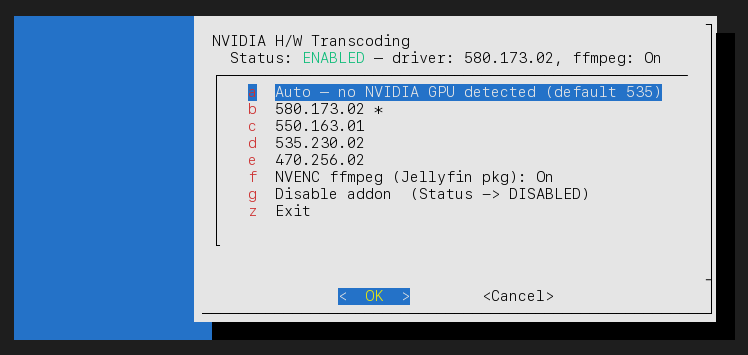
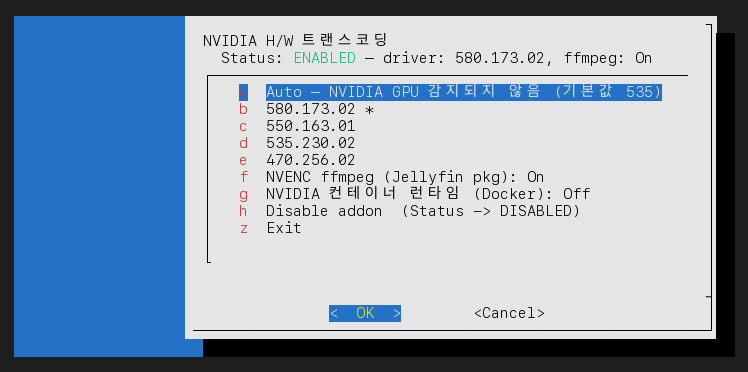
README_instruction_ko.md: 한글 메뉴 캡처 전량 재촬영 + NVIDIA 컨테이너 런타임 항목 보완
152 실기(v1.4.2.4, ko_KR)에서 메인 메뉴와 z/g/n/x 하위메뉴 5장을 전부
다시 캡처(그 사이 보완된 한국어 번역 반영, 하위메뉴는 팝업 중심 crop
유지). g(NVIDIA) 하위메뉴에 새로 추가된 컨테이너 런타임(Docker) 토글
항목을 표에 반영(g로 삽입되며 Disable addon 은 h로 밀림), 번역 반영
이전 캡처였다는 낡은 각주도 정리. 영문 README/캡처는 다른 세션에서
별도 보완 예정이라 이번에는 건드리지 않음.

Changed region(s): [[0.246, 0.031, 0.9532, 0.9606]]

diff --git a/README_instruction_ko.md b/README_instruction_ko.md
@@ -79,14 +79,15 @@
 - **[syno_nvidia_driver](https://github.com/PeterSuh-Q3/syno_nvidia_driver)** — 드라이버가 실제로 만들어지는 곳입니다. 시놀로지 DSM 커널에 맞춰 무인증 NVIDIA 드라이버를 빌드하고, 버전별로 바로 쓸 수 있는 레이어(커널 모듈, 유저스페이스 도구, NVENC ffmpeg, GSP 펌웨어, 컨테이너 런타임)를 배포합니다. 로더를 다시 빌드하지 않고 이미 돌아가는 DSM에 바로 설치하고 싶다면 여기서 제공하는 단독 설치 스크립트를 쓸 수도 있습니다.
 - **[tcrp-addons/nvidiadriver](https://github.com/PeterSuh-Q3/tcrp-addons/tree/main/nvidiadriver)** — 그 드라이버를 실어 나르는 쪽입니다. 위에서 배포된 레이어를 받아 로더에 구워 넣어, DSM이 부팅되는 시점부터 드라이버가 자리 잡고 있도록 해줍니다. `nvidia-smi` 노출, Jellyfin의 ffmpeg 경로 재지정, Container Manager에서 GPU 사용 활성화 같은 주변 연결 작업도 이 애드온이 처리합니다.
 
-무인증 NVIDIA 드라이버(물리/passthrough GPU 전용 — vGPU·라이선스 서버 없음) 하위메뉴입니다. 실시간 드라이버 카탈로그를 기준으로 항목을 구성하므로, 현재 플랫폼**과** 커널에 실제로 존재하는 버전만 표시됩니다(커널 5.10.55: 470/535/550/580, 커널 4.4: 550만 — NVIDIA 자체 하한선, 커널 3.10: 진입 자체 불가). (※ 이 캡처는 번역 반영 이전에 찍힌 것이라 영어로 보이는데, 최신 빌드에서는 한국어를 포함한 18개 언어로 번역되어 표시됩니다. 드라이버 버전 번호, `ffmpeg`/`addon`/`Status`/`Auto`/`ON`·`OFF`/`ENABLED`·`DISABLED` 같은 기술 용어는 다른 메뉴와 동일하게 모든 언어에서 영어 그대로 유지됩니다.)
+무인증 NVIDIA 드라이버(물리/passthrough GPU 전용 — vGPU·라이선스 서버 없음) 하위메뉴입니다. 실시간 드라이버 카탈로그를 기준으로 항목을 구성하므로, 현재 플랫폼**과** 커널에 실제로 존재하는 버전만 표시됩니다(커널 5.10.55: 470/535/550/580, 커널 4.4: 550만 — NVIDIA 자체 하한선, 커널 3.10: 진입 자체 불가). 드라이버 버전 번호, `ffmpeg`/`addon`/`Status`/`Auto`/`ON`·`OFF`/`ENABLED`·`DISABLED` 같은 기술 용어는 다른 메뉴와 동일하게 모든 언어에서 영어 그대로 유지됩니다.
 
 | 키 | 항목 | 설명 |
 |---|---|---|
 | `a` | Auto | 빌드 시점에 로더가 자동으로 적합한 드라이버를 감지/선택하게 합니다(아직 GPU가 감지되지 않은 경우 535 등 안전한 기본값으로 대체). |
 | `b`~`e` | 개별 드라이버 버전(`580.173.02`, `550.163.01`, `535.230.02`, `470.256.02` 등) | 특정 드라이버 버전을 고정합니다. 현재 적용 중인 버전에는 `*` 표시가 붙습니다. Ada/Blackwell 카드에서는 580이 조용히 추천 목록에서 빠집니다(해당 카드용 GSP 펌웨어가 NVIDIA `.run`에 없음) — 이 경우 550을 선택하세요. |
 | `f` | NVENC ffmpeg (Jellyfin pkg) | NVENC 지원 ffmpeg 빌드를 드라이버와 함께 번들할지 켭니다/끕니다. 켜두면 부팅훅이 SynoCommunity Jellyfin 패키지의 `--ffmpeg` 인자를 기본(비NVENC) `ffmpeg7` 바이너리 대신 이 빌드로 자동 재지정합니다 — Jellyfin UI에서 경로를 수동으로 바꿀 필요가 없습니다. |
-| `g` | Disable addon | NVIDIA 애드온 전체를 끕니다. 메인 메뉴 라벨이 `NVIDIA H/W Trans. [OFF] - select to add`로 돌아갑니다. |
+| `g` | NVIDIA container runtime (Docker) | Container Manager(Docker)용 `nvidia` 컨테이너 런타임 연동을 켭니다/끕니다. 켜두면 로더가 `--runtime=nvidia`로 띄운 컨테이너에서 GPU를 볼 수 있도록 런타임을 등록합니다 — Jellyfin 등 DSM 패키지가 아니라 Docker 컨테이너 안에서 GPU 가속을 쓰고 싶을 때 필요합니다. |
+| `h` | Disable addon | NVIDIA 애드온 전체를 끕니다. 메인 메뉴 라벨이 `NVIDIA H/W Trans. [OFF] - select to add`로 돌아갑니다. |
 | `z` | Exit | 메인 메뉴로 돌아갑니다. |
 
 ## `n` — 추가 기능
